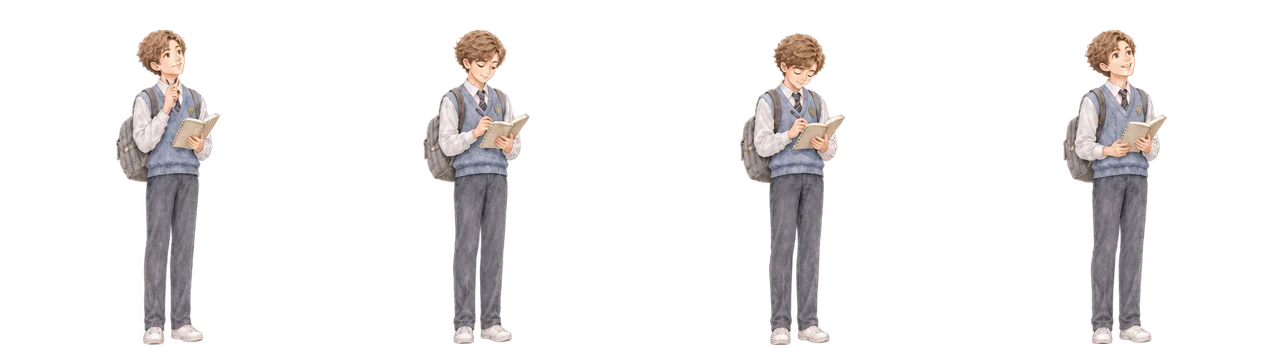
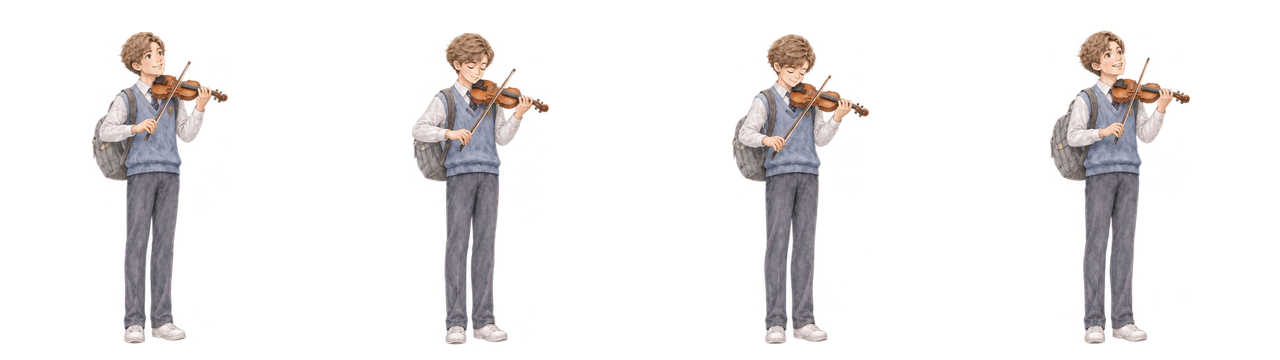
Add files via upload

diff --git a/baby-avatar.js b/baby-avatar.js
@@ -6,14 +6,19 @@
  const variants={"sunny-girl":{"0":{"name":"微笑、張嘴 · 抱奶瓶喝奶","frames":4,"poses":[[0,1700],[1,1200],[2,450],[3,2200],[2,450],[1,1200],[0,1800]]},"4":{"name":"握好跳繩 · 蹦跳過繩","frames":4,"poses":[[0,300],[1,250],[2,250],[3,300],[0,350]]},"7":{"name":"辯論練習 · 自信表達","frames":4,"poses":[[0,1400],[1,500],[2,700],[3,1200],[2,700],[1,500],[0,1400]]},"8":{"name":"研讀法律 · 翻閱法學書","frames":4,"poses":[[0,1400],[1,500],[2,700],[3,1200],[2,700],[1,500],[0,1400]]},"9":{"name":"查閱案件 · 從容陳述","frames":4,"poses":[[0,1400],[1,500],[2,700],[3,1200],[2,700],[1,500],[0,1400]]}},"sunny-boy":{"0":{"name":"微笑、張嘴 · 抱奶瓶喝奶","frames":4,"poses":[[0,1700],[1,1200],[2,450],[3,2200],[2,450],[1,1200],[0,1800]]},"4":{"name":"拍拍小球 · 接住抱好","frames":4,"poses":[[0,650],[1,300],[2,350],[3,700],[0,650]]},"7":{"name":"校隊練習 · 穩定運球","frames":4,"poses":[[0,900],[1,230],[2,230],[1,230],[3,800],[0,500]]},"8":{"name":"大學校隊 · 準備投籃","frames":4,"poses":[[0,1100],[1,450],[2,400],[3,700],[2,350],[1,350],[0,1200]]},"9":{"name":"籃球國手 · 控球練習","frames":4,"poses":[[0,1100],[1,230],[2,230],[1,230],[2,230],[1,230],[3,900],[0,700]]}},"sweet-girl":{"0":{"name":"微笑、張嘴 · 抱奶瓶喝奶","frames":4,"poses":[[0,1700],[1,1200],[2,450],[3,2200],[2,450],[1,1200],[0,1800]]},"4":{"name":"抱抱洋娃娃 · 溫柔哄睡","frames":4,"poses":[[0,1400],[1,500],[2,700],[3,1200],[2,700],[1,500],[0,1400]]},"7":{"name":"觀察構圖 · 畫下靈感","frames":4,"poses":[[0,1400],[1,500],[2,700],[3,1200],[2,700],[1,500],[0,1400]]},"8":{"name":"研讀藝術 · 翻閱展覽畫冊","frames":4,"poses":[[0,1400],[1,500],[2,700],[3,1200],[2,700],[1,500],[0,1400]]},"9":{"name":"策劃展覽 · 介紹畫廊作品","frames":4,"poses":[[0,1400],[1,500],[2,700],[3,1200],[2,700],[1,500],[0,1400]]}},"calm-boy":{"0":{"name":"微笑、張嘴 · 抱奶瓶喝奶","frames":4,"poses":[[0,1700],[1,1200],[2,450],[3,2200],[2,450],[1,1200],[0,1800]]},"4":{"name":"組裝積木機器人","frames":4,"poses":[[0,1400],[1,500],[2,700],[3,1200],[2,700],[1,500],[0,1400]]},"7":{"name":"機器人社團 · 調整零件","frames":4,"poses":[[0,1400],[1,500],[2,700],[3,1200],[2,700],[1,500],[0,1400]]},"8":{"name":"工程實作 · 測試機器人","frames":4,"poses":[[0,1400],[1,500],[2,700],[3,1200],[2,700],[1,500],[0,1400]]},"9":{"name":"研發機器人 · 精密調校","frames":4,"poses":[[0,1400],[1,500],[2,700],[3,1200],[2,700],[1,500],[0,1400]]}}};
  const masterAction={name:'輕撥佛珠 · 垂目微笑',frames:4,poses:[[0,2000],[1,500],[2,350],[1,500],[0,1800],[3,1200],[0,2000]]};
  variants['master-boy']={9:masterAction};variants['master-girl']={9:masterAction};
+ const blueCareerPoses=[[0,1200],[1,450],[2,450],[3,800],[2,450],[1,450],[0,1200]];
+ variants['blue-boy']={};variants['blue-girl']={};
+ for(const [id,names] of [['blue-boy',['背著小提琴去上課 · 揮手','弦樂團練習 · 拉奏小提琴','校園演奏 · 專注運弓','音樂主修 · 練習樂曲','小提琴家 · 溫柔演奏']],['blue-girl',['翻閱太空圖鑑 · 認識星球','天文社觀星 · 舉起望遠鏡','科學專題 · 調整火箭模型','航太研究 · 測試衛星模型','太空人 · 抱著頭盔揮手']]]){
+  names.forEach((name,i)=>{variants[id][i+5]={name,frames:4,poses:blueCareerPoses};});
+ }
  function actionFor(stage,id){if(stage===6&&id==='calm-boy')return {...actions[6],name:'閱讀 · 抬手調整眼鏡'};return variants[id]&&variants[id][stage]||actions[stage];}
  function render(stage,gender,characterId){
   stage=Math.max(0,Math.min(9,Math.floor(Number(stage)||0)));
   gender=gender==='girl'?'girl':'boy';
   const identity=root.BabyCore&&root.BabyCore.character(characterId);
-  const variant=identity&&variants[identity.id]&&(!identity.id.startsWith('master-')||stage===9)?identity.id:null;
+  const variant=identity&&variants[identity.id]&&(!identity.id.startsWith('master-')||stage===9)&&(!identity.id.startsWith('blue-')||stage>=5)?identity.id:null;
   if(identity)gender=identity.gender;
-  const action=actionFor(stage,variant),file='assets/painted/'+(variant||gender)+'-'+stage+'-cels.webp';
+  const action=actionFor(stage,variant),file='assets/painted/'+(identity?identity.asset:gender)+'-'+stage+'-cels.webp';
   const src=root.BABY_ART_ASSETS&&root.BABY_ART_ASSETS[file]||file;
   const image=cls=>'<img class="'+cls+'" src="'+src+'" width="'+(320*action.frames)+'" height="360" alt="" aria-hidden="true" draggable="false">';
   return '<span class="baby-illustration baby-painted painted-cels painted-stage-'+stage+(variant?' painted-variant painted-'+variant:'')+'" role="img" aria-label="'+(gender==='girl'?'女寶':'男寶')+' · '+action.name+'" style="--cel-width:'+(action.frames*100)+'%">'+

diff --git a/index.html b/index.html
@@ -800,17 +800,31 @@
     var exampleClass = isStudy ? "study-example" : "fc-example";
     var posClass = isStudy ? "study-example-pos" : "fc-example-zh";
     var zhClass = isStudy ? "study-example-zh" : "fc-example-zh";
-    // 不同義項必須在卡片上並列；同義的備用句只由 getReviewExamples
-    // 加入後續循環複習，不會使預習卡重複堆疊相同意思。
+    // 預習保留並列義項；單字庫每次顯示一個義項，全部例句仍可切換閱讀。
     var visibleExamples = examples;
-    return visibleExamples.map(function(item){
-      return '<div class="' + groupClass + '">' +
+    var paged = display === "bank" && examples.length > 1;
+    var markup = visibleExamples.map(function(item,index){
+      return '<div class="' + groupClass + '"' + (paged && index ? ' hidden' : '') + '>' +
         (item.sense ? '<div class="' + senseClass + '">' + escapeHtml(item.sense) + '</div>' : "") +
         '<div class="' + exampleClass + '">' + highlightWord(item.example, word.en) + '</div>' +
         (item.pos ? '<div class="' + posClass + '">本句詞性：' + escapeHtml(item.pos) + '</div>' : "") +
         (item.exampleZh ? '<div class="' + zhClass + '">' + escapeHtml(item.exampleZh) + '</div>' : "") +
       '</div>';
     }).join("");
+    return paged ? '<div class="fc-sense-pages" data-sense-index="0">' + markup + '</div><div class="fc-sense-nav"><span class="fc-sense-position" aria-live="polite">用法 1 / ' + examples.length + '</span><button type="button" class="fc-sense-step" data-sense-step="-1" aria-label="上一個字義">上一個</button><button type="button" class="fc-sense-step" data-sense-step="1" aria-label="下一個字義">下一個</button></div>' : markup;
+  }
+  function bindBankSenseControls(root){
+    Array.prototype.forEach.call(root.querySelectorAll('.fc-sense-step'),function(button){
+      button.onclick=function(event){
+        event.stopPropagation();
+        var card=button.closest('.flip-card'),pages=card.querySelector('.fc-sense-pages');
+        var groups=pages.querySelectorAll('.fc-example-group');
+        var index=(Number(pages.getAttribute('data-sense-index'))+Number(button.getAttribute('data-sense-step'))+groups.length)%groups.length;
+        Array.prototype.forEach.call(groups,function(group,i){group.hidden=i!==index;});
+        pages.setAttribute('data-sense-index',String(index));pages.scrollTop=0;
+        card.querySelector('.fc-sense-position').textContent='用法 '+(index+1)+' / '+groups.length;
+      };
+    });
   }
   // Vocabulary is maintained in data/beginner.js, data/intermediate.js,
   // data/real-word-extension.js, and data/advanced.js.
@@ -1745,16 +1759,14 @@
         var helpBadge = w.helpCount ? '<span class="fc-help">💡×' + w.helpCount + '</span>' : "";
         /* 只有真的使用過提示時才建立頁尾，避免空白區塊佔用字卡空間。 */
         var frontFooter = helpBadge ? '<div class="fc-bottom-row">' + helpBadge + '</div>' : "";
-        // Multi-sense cards use an expanded two-column layout.  Estimate their
-        // height from the examples so each sense gets enough reading space.
+        // Keep the library grid uniform; switch senses inside each card.
         var cardExamples = getCardExamples(w);
         var exampleCount = cardExamples.length;
         var isMultiSense = exampleCount > 1;
         var multiSenseClass = isMultiSense ? ' multi-sense-card' : "";
-        var multiSenseStyle = isMultiSense ? ' style="--sense-card-height:' + getMultiSenseCardHeight(cardExamples) + 'px"' : "";
         var senseBadge = isMultiSense ? '<span class="fc-sense-count">✦ ' + exampleCount + ' 種用法</span>' : "";
         var backExample = renderCardExamples(w, "bank");
-        return '<div class="flip-card ' + statusClass + multiSenseClass + '" data-id="' + w.id + '"' + multiSenseStyle + '>' +
+        return '<div class="flip-card ' + statusClass + multiSenseClass + '" data-id="' + w.id + '">' +
           '<div class="flip-card-inner">' +
             '<div class="flip-card-front">' +
               '<div class="fc-top-row">' +
@@ -1891,9 +1903,10 @@
       };
     }
 
+    bindBankSenseControls(bankEl);
     Array.prototype.forEach.call(document.querySelectorAll(".flip-card"), function(card){
       card.addEventListener("click", function(e){
-        if(e.target.closest(".speak-btn") || e.target.closest(".fc-del")) return;
+        if(e.target.closest(".speak-btn") || e.target.closest(".fc-del") || e.target.closest('.fc-sense-step')) return;
         card.classList.toggle("flipped");
       });
     });

diff --git a/baby-avatar.css b/baby-avatar.css
@@ -107,3 +107,26 @@
 /* Hidden adult: intact painted cels, no warping. */
 .painted-master-boy.painted-stage-9 .painted-strip,.painted-master-girl.painted-stage-9 .painted-strip{animation:cel-master 8350ms steps(1,end) infinite}
 @keyframes cel-master{0.000000%{left:0%}23.952096%{left:-100%}29.940120%{left:-200%}34.131737%{left:-100%}40.119760%{left:0%}61.676647%{left:-300%}76.047904%{left:0%}100%{left:0%}}
+
+
+/* Blue school and adult career actions; complete painted frames only. */
+.painted-blue-boy.painted-stage-5 .painted-strip{animation:cel-blue-boy-5 5000ms steps(1,end) infinite}
+@keyframes cel-blue-boy-5{0.000000%{left:0%}24.000000%{left:-100%}33.000000%{left:-200%}42.000000%{left:-300%}58.000000%{left:-200%}67.000000%{left:-100%}76.000000%{left:0%}100%{left:0%}}
+.painted-blue-boy.painted-stage-6 .painted-strip{animation:cel-blue-boy-6 5000ms steps(1,end) infinite}
+@keyframes cel-blue-boy-6{0.000000%{left:0%}24.000000%{left:-100%}33.000000%{left:-200%}42.000000%{left:-300%}58.000000%{left:-200%}67.000000%{left:-100%}76.000000%{left:0%}100%{left:0%}}
+.painted-blue-boy.painted-stage-7 .painted-strip{animation:cel-blue-boy-7 5000ms steps(1,end) infinite}
+@keyframes cel-blue-boy-7{0.000000%{left:0%}24.000000%{left:-100%}33.000000%{left:-200%}42.000000%{left:-300%}58.000000%{left:-200%}67.000000%{left:-100%}76.000000%{left:0%}100%{left:0%}}
+.painted-blue-boy.painted-stage-8 .painted-strip{animation:cel-blue-boy-8 5000ms steps(1,end) infinite}
+@keyframes cel-blue-boy-8{0.000000%{left:0%}24.000000%{left:-100%}33.000000%{left:-200%}42.000000%{left:-300%}58.000000%{left:-200%}67.000000%{left:-100%}76.000000%{left:0%}100%{left:0%}}
+.painted-blue-boy.painted-stage-9 .painted-strip{animation:cel-blue-boy-9 5000ms steps(1,end) infinite}
+@keyframes cel-blue-boy-9{0.000000%{left:0%}24.000000%{left:-100%}33.000000%{left:-200%}42.000000%{left:-300%}58.000000%{left:-200%}67.000000%{left:-100%}76.000000%{left:0%}100%{left:0%}}
+.painted-blue-girl.painted-stage-5 .painted-strip{animation:cel-blue-girl-5 5000ms steps(1,end) infinite}
+@keyframes cel-blue-girl-5{0.000000%{left:0%}24.000000%{left:-100%}33.000000%{left:-200%}42.000000%{left:-300%}58.000000%{left:-200%}67.000000%{left:-100%}76.000000%{left:0%}100%{left:0%}}
+.painted-blue-girl.painted-stage-6 .painted-strip{animation:cel-blue-girl-6 5000ms steps(1,end) infinite}
+@keyframes cel-blue-girl-6{0.000000%{left:0%}24.000000%{left:-100%}33.000000%{left:-200%}42.000000%{left:-300%}58.000000%{left:-200%}67.000000%{left:-100%}76.000000%{left:0%}100%{left:0%}}
+.painted-blue-girl.painted-stage-7 .painted-strip{animation:cel-blue-girl-7 5000ms steps(1,end) infinite}
+@keyframes cel-blue-girl-7{0.000000%{left:0%}24.000000%{left:-100%}33.000000%{left:-200%}42.000000%{left:-300%}58.000000%{left:-200%}67.000000%{left:-100%}76.000000%{left:0%}100%{left:0%}}
+.painted-blue-girl.painted-stage-8 .painted-strip{animation:cel-blue-girl-8 5000ms steps(1,end) infinite}
+@keyframes cel-blue-girl-8{0.000000%{left:0%}24.000000%{left:-100%}33.000000%{left:-200%}42.000000%{left:-300%}58.000000%{left:-200%}67.000000%{left:-100%}76.000000%{left:0%}100%{left:0%}}
+.painted-blue-girl.painted-stage-9 .painted-strip{animation:cel-blue-girl-9 5000ms steps(1,end) infinite}
+@keyframes cel-blue-girl-9{0.000000%{left:0%}24.000000%{left:-100%}33.000000%{left:-200%}42.000000%{left:-300%}58.000000%{left:-200%}67.000000%{left:-100%}76.000000%{left:0%}100%{left:0%}}

diff --git a/baby-garden.css b/baby-garden.css
@@ -82,3 +82,17 @@ footer.note{background:#f0f2e9;border:1px solid #e2e6d7;box-shadow:none;color:#7
 .master-test-controls p{flex-basis:100%;margin:0}
 .nursery #master-resume{position:relative;z-index:2;margin:12px auto}
 @media(max-width:420px){.master-reveal{padding:24px 16px}.master-verse{font-size:17px;letter-spacing:.03em}}
+/* 單字庫等高卡片；多義字保留全部例句，以卡內換頁取代跨欄高卡。 */
+#panel-bank .word-grid{grid-template-columns:repeat(auto-fill,minmax(220px,1fr));align-items:start}
+#panel-bank .flip-card,#panel-bank .flip-card.multi-sense-card{height:280px;min-height:280px;grid-column:auto;min-width:0}
+#panel-bank .flip-card-back{justify-content:flex-start;gap:9px;padding:16px}
+#panel-bank .flip-card-back .fc-top-row{flex-shrink:0;margin:0}
+#panel-bank .flip-card-back .fc-zh{font-size:16px;line-height:1.5;margin:0;flex-shrink:0}
+#panel-bank .multi-sense-card .fc-zh{max-height:48px;overflow:auto}
+#panel-bank .fc-sense-pages{min-height:0;flex:1;overflow:auto;overscroll-behavior:contain;padding-right:3px}
+#panel-bank .fc-sense-pages .fc-example-group{margin:0;padding:0;border:0}
+#panel-bank .fc-sense-nav{display:flex;align-items:center;justify-content:space-between;gap:5px;flex-shrink:0;border-top:1px solid var(--rule);padding-top:6px}
+#panel-bank .fc-sense-position{font-size:11px;color:var(--ink-soft);white-space:nowrap}
+#panel-bank .fc-sense-step{font:12px var(--font-ui);padding:6px 8px;min-height:36px;border:1px solid var(--rule-strong);border-radius:9px;background:var(--panel-alt);color:var(--ink);cursor:pointer}
+@media(pointer:coarse){#panel-bank .fc-sense-step{min-height:44px}}
+@media(max-width:640px){#panel-bank .word-grid{grid-template-columns:repeat(auto-fill,minmax(min(100%,230px),1fr))}}

diff --git a/baby-core.js b/baby-core.js
@@ -3,8 +3,8 @@
   'use strict';
   const goals = [5, 10, 15];
   const characters = [
-    {id:'blue-boy',gender:'boy',asset:'boy',name:'藍衣男寶',career:''},
-    {id:'blue-girl',gender:'girl',asset:'girl',name:'藍衣女寶',career:''},
+    {id:'blue-boy',gender:'boy',asset:'boy',name:'藍衣男寶',career:'小提琴家'},
+    {id:'blue-girl',gender:'girl',asset:'girl',name:'藍衣女寶',career:'太空人'},
     {id:'sunny-girl',gender:'girl',asset:'sunny-girl',name:'黃衣女寶',career:'幹練律師'},
     {id:'sunny-boy',gender:'boy',asset:'sunny-boy',name:'綠衣男寶',career:'籃球國手'},
     {id:'sweet-girl',gender:'girl',asset:'sweet-girl',name:'粉衣女寶',career:'畫廊老闆'},
